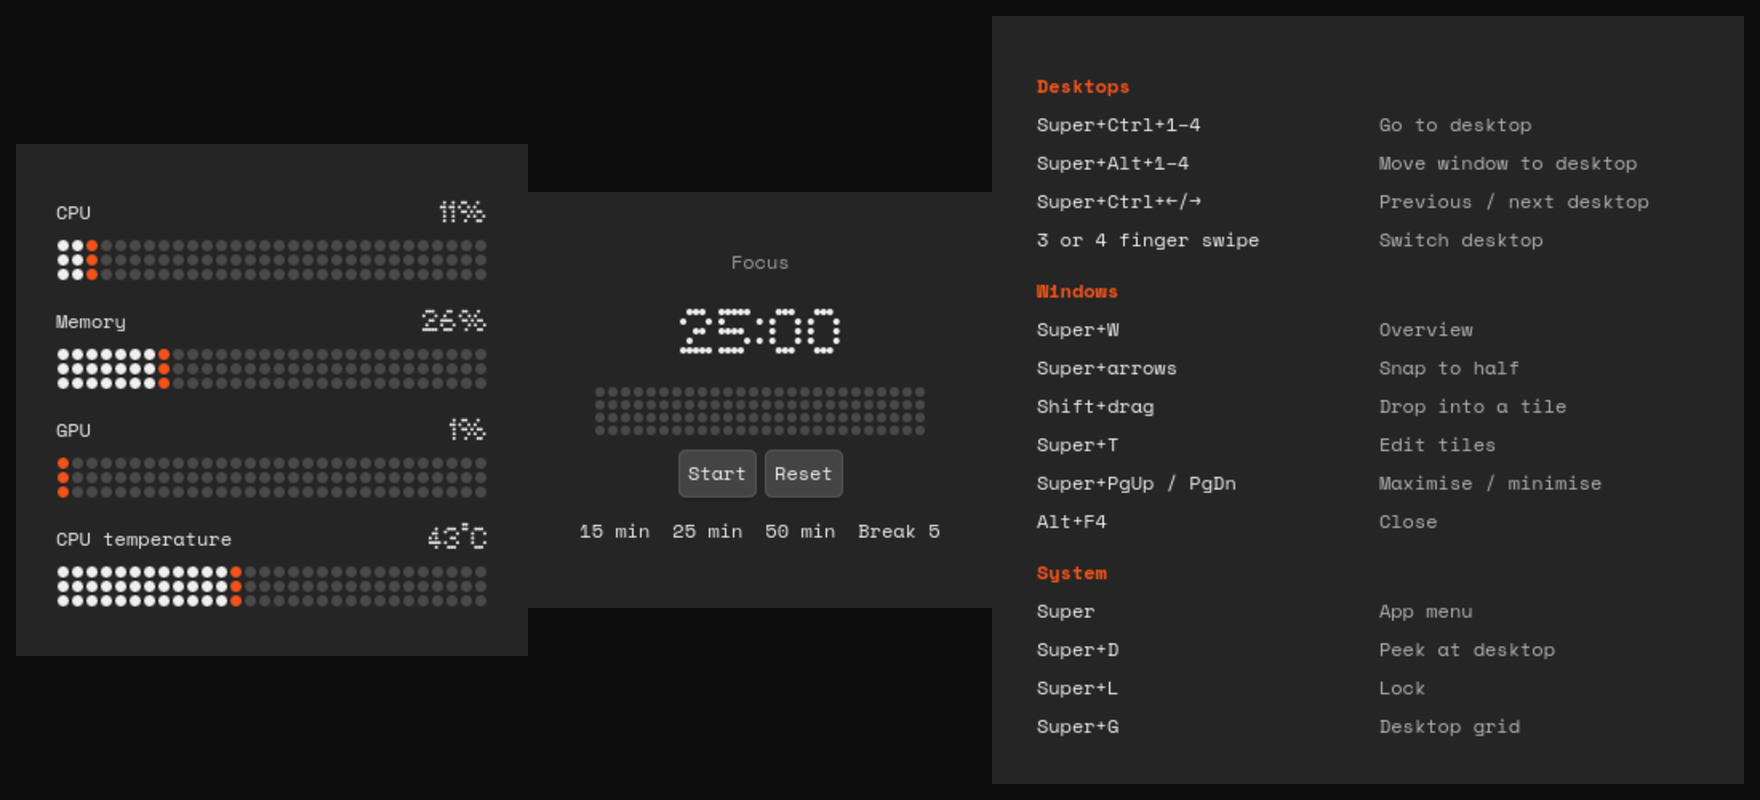
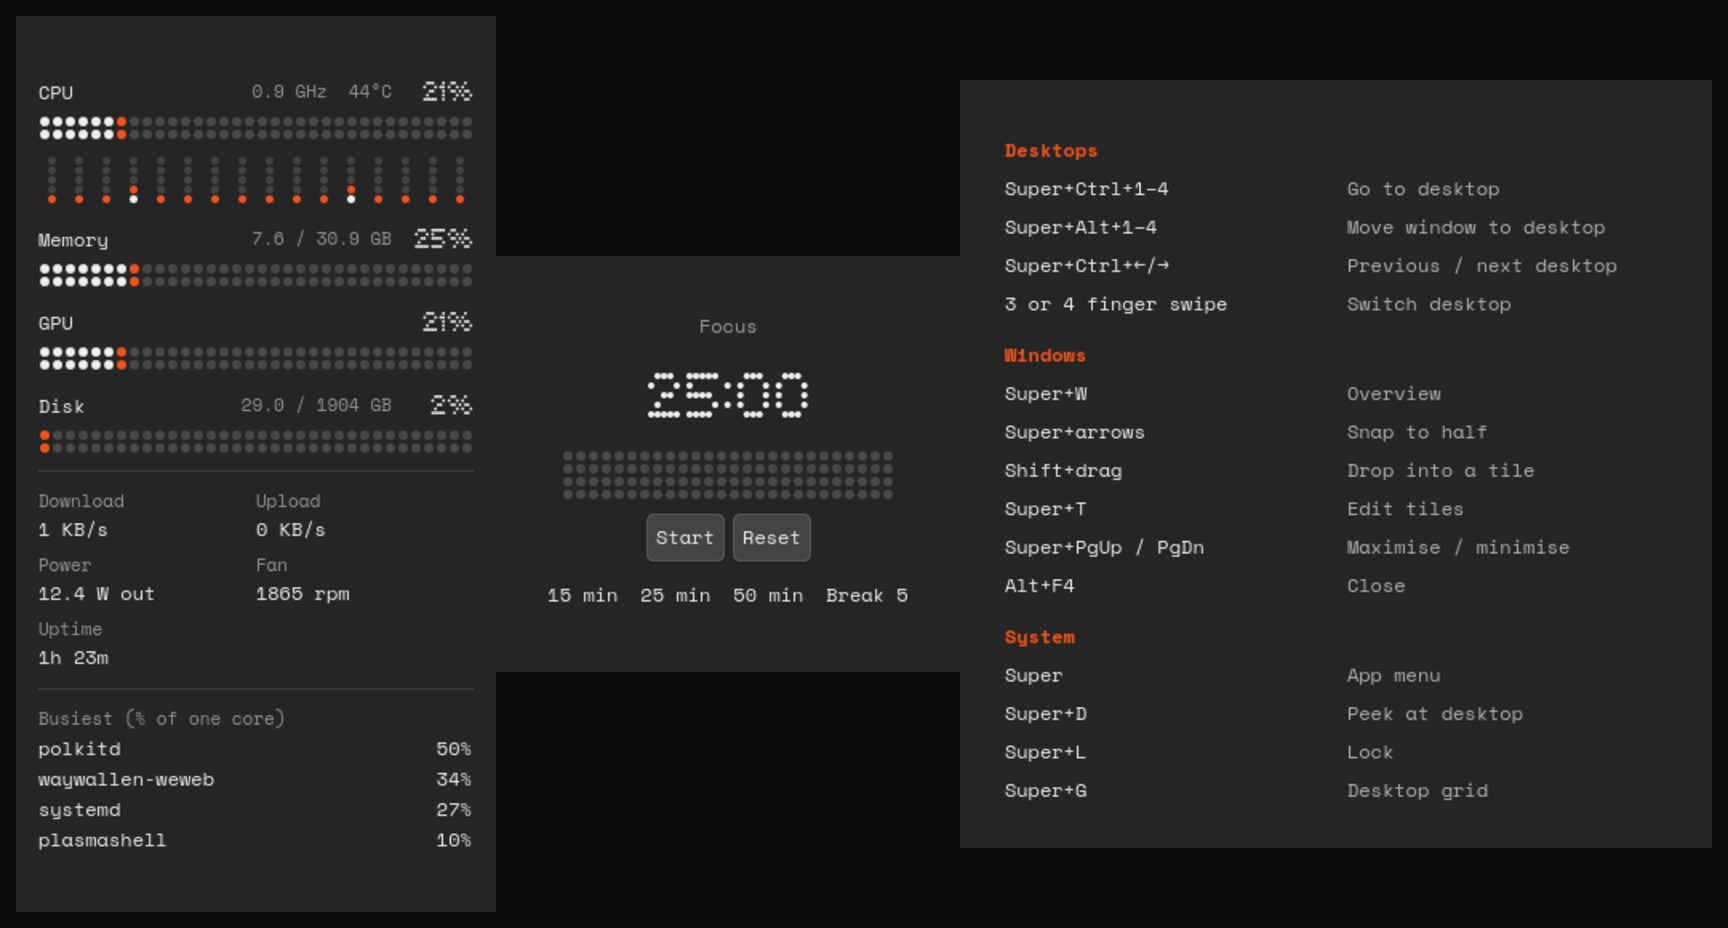
System monitor: compact pop-up with cores, disk, network, power and apps

diff --git a/plasmoids/local.dotsysmon/contents/ui/main.qml b/plasmoids/local.dotsysmon/contents/ui/main.qml
@@ -5,6 +5,7 @@ import org.kde.plasma.core as PlasmaCore
 import org.kde.plasma.components as PC
 import org.kde.kirigami as Kirigami
 import org.kde.ksysguard.sensors as Sensors
+import org.kde.plasma.plasma5support as P5Support
 
 PlasmoidItem {
     id: root
@@ -12,7 +13,6 @@ PlasmoidItem {
     Sensors.Sensor { id: cpu; sensorId: "cpu/all/usage"; updateRateLimit: 2000 }
     Sensors.Sensor { id: mem; sensorId: "memory/physical/usedPercent"; updateRateLimit: 4000 }
     Sensors.Sensor { id: temp; sensorId: "cpu/all/averageTemperature"; updateRateLimit: 4000 }
-    Sensors.Sensor { id: gpu; sensorId: "gpu/all/usage"; updateRateLimit: 4000 }
     toolTipMainText: "System"
     toolTipSubText: "CPU " + Math.round(n(cpu)) + "%  Memory " + Math.round(n(mem)) + "%  " + Math.round(n(temp)) + "°C"
 
@@ -39,24 +39,123 @@ PlasmoidItem {
         }
     }
     fullRepresentation: Item {
-        Layout.preferredWidth: col.implicitWidth + 32
-        Layout.preferredHeight: col.implicitHeight + 32
+        id: view
+        Layout.preferredWidth: col.implicitWidth + 20
+        Layout.preferredHeight: col.implicitHeight + 20
         Layout.minimumWidth: Layout.preferredWidth
         Layout.minimumHeight: Layout.preferredHeight
+        Layout.maximumWidth: Layout.preferredWidth
+        Layout.maximumHeight: Layout.preferredHeight
+        // Everything below is measured only while the pop-up is open
+        readonly property bool live: root.expanded || Plasmoid.formFactor === PlasmaCore.Types.Planar
+        readonly property int cores: coreCount.value > 0 ? Math.min(32, Math.round(Number(coreCount.value))) : 0
+        function has(q) { return q.value !== undefined && q.value !== null && q.value !== "" && !isNaN(Number(q.value)) }
+        function gb(v) { return (v / 1073741824).toFixed(v > 107374182400 ? 0 : 1) }
+        function rate(v) { return v >= 1048576 ? (v / 1048576).toFixed(1) + " MB/s" : Math.round(v / 1024) + " KB/s" }
+        function dur(v) { var d = Math.floor(v / 86400), h = Math.floor(v / 3600) % 24, m = Math.floor(v / 60) % 60; return d ? d + "d " + h + "h" : h ? h + "h " + m + "m" : m + "m" }
+        component S: Sensors.Sensor { enabled: view.live; updateRateLimit: 2000 }
+        S { id: gpu; sensorId: "gpu/all/usage" }
+        S { id: freq; sensorId: "cpu/all/averageFrequency" }
+        S { id: coreCount; sensorId: "cpu/all/coreCount" }
+        S { id: memUsed; sensorId: "memory/physical/used" }
+        S { id: memTotal; sensorId: "memory/physical/total" }
+        S { id: diskPct; sensorId: "disk/all/usedPercent"; updateRateLimit: 10000 }
+        S { id: diskUsed; sensorId: "disk/all/used"; updateRateLimit: 10000 }
+        S { id: diskTotal; sensorId: "disk/all/total"; updateRateLimit: 10000 }
+        S { id: down; sensorId: "network/all/download" }
+        S { id: up; sensorId: "network/all/upload" }
+        S { id: upt; sensorId: "os/system/uptime"; updateRateLimit: 30000 }
+        S { id: fan; sensorId: "lmsensors/cros_ec-isa-000c/fan1" }
+
+        property string watts: ""
+        property var apps: []
+        P5Support.DataSource {
+            engine: "executable"
+            interval: 5000
+            connectedSources: view.live ? ["LC_ALL=C; for b in /sys/class/power_supply/BAT*; do [ -e $b/power_now ] && awk '{printf \"W %.1f\\n\", $1/1e6}' $b/power_now || { [ -e $b/current_now ] && paste $b/current_now $b/voltage_now | awk '{printf \"W %.1f\\n\", $1*$2/1e12}'; }; echo \"S $(cat $b/status)\"; break; done; top -b -n 2 -d 0.6 -w 120 | awk '/^top/{n++} n==2 && $1 ~ /^[0-9]+$/ && $12 != \"top\" {c[$12]+=$9} END{for(k in c) if(c[k]>=1) print \"P\", c[k], k}' | sort -k2 -rn | head -4"] : []
+            onNewData: (src, d) => {
+                var w = "", st = "", list = []
+                d.stdout.split("\n").forEach(l => {
+                    var f = l.split(" ")
+                    if (f[0] === "W") w = f[1]; else if (f[0] === "S") st = f.slice(1).join(" ")
+                    else if (f[0] === "P" && Number(f[1]) > 0) list.push({ c: Math.round(Number(f[1])), n: f.slice(2).join(" ") })
+                })
+                view.watts = w ? w + " W " + (st === "Charging" ? "in" : st === "Discharging" ? "out" : "") : ""
+                view.apps = list
+            }
+        }
+
+        component Row1: ColumnLayout {
+            property string t
+            property string sub
+            property real v
+            spacing: 3
+            RowLayout {
+                PC.Label { text: t }
+                PC.Label { text: sub; opacity: 0.55; font: Kirigami.Theme.smallFont; Layout.fillWidth: true; horizontalAlignment: Text.AlignRight }
+                Text { text: Math.round(v) + "%"; font.family: "Ndot55Caps"; font.pointSize: 13; color: Kirigami.Theme.textColor; horizontalAlignment: Text.AlignRight; Layout.preferredWidth: 46 }
+            }
+            DotBar { cols: 34; rows: 2; pitch: 8; value: v / 100; hot: v >= 85 }
+        }
+
         ColumnLayout {
             id: col
             anchors.centerIn: parent
-            spacing: 12
-            Repeater {
-                model: [{ t: "CPU", v: root.n(cpu), m: 100, u: "%" }, { t: "Memory", v: root.n(mem), m: 100, u: "%" }, { t: "GPU", v: root.n(gpu), m: 100, u: "%" }, { t: "CPU temperature", v: root.n(temp), m: 100, u: "°C" }]
-                ColumnLayout {
-                    required property var modelData
-                    spacing: 4
-                    RowLayout {
-                        PC.Label { text: modelData.t; Layout.fillWidth: true }
-                        Text { text: Math.round(modelData.v) + modelData.u; font.family: "Ndot55Caps"; font.pointSize: 14; color: Kirigami.Theme.textColor }
+            spacing: 10
+            Row1 { t: "CPU"; v: root.n(cpu); sub: (view.has(freq) ? (root.n(freq) / 1000).toFixed(1) + " GHz  " : "") + Math.round(root.n(temp)) + "°C" }
+            Row {    // one column of dots per core
+                visible: view.cores > 0
+                Layout.alignment: Qt.AlignHCenter
+                Repeater {
+                    model: view.cores
+                    Item {
+                        id: cr
+                        required property int index
+                        width: 272 / view.cores; height: 30
+                        Sensors.Sensor { id: cs; sensorId: "cpu/cpu" + cr.index + "/usage"; enabled: view.live; updateRateLimit: 2000 }
+                        readonly property real u: root.n(cs)
+                        readonly property int lit: u < 3 ? 0 : Math.max(1, Math.round(u / 20))
+                        Repeater {
+                            model: 5
+                            Rectangle {
+                                required property int index
+                                anchors.horizontalCenter: parent.horizontalCenter
+                                y: index * 6; width: 5; height: 5; radius: 2.5
+                                color: index === 5 - cr.lit || cr.u >= 85 ? "#f3531a" : Kirigami.Theme.textColor
+                                opacity: index >= 5 - cr.lit ? 1 : 0.15
+                            }
+                        }
                     }
-                    DotBar { value: modelData.v / modelData.m; hot: modelData.v >= 85 }
+                }
+            }
+            Row1 { t: "Memory"; v: root.n(mem); sub: view.has(memTotal) ? view.gb(root.n(memUsed)) + " / " + view.gb(root.n(memTotal)) + " GB" : "" }
+            Row1 { t: "GPU"; v: root.n(gpu); visible: view.has(gpu) }
+            Row1 { t: "Disk"; v: root.n(diskPct); sub: view.has(diskTotal) ? view.gb(root.n(diskUsed)) + " / " + view.gb(root.n(diskTotal)) + " GB" : ""; visible: view.has(diskPct) }
+            Rectangle { Layout.fillWidth: true; implicitHeight: 1; color: Kirigami.Theme.textColor; opacity: 0.12 }
+            Grid {
+                columns: 2; rowSpacing: 5
+                Repeater {
+                    model: [["Download", view.rate(root.n(down))], ["Upload", view.rate(root.n(up))], ["Power", view.watts], ["Fan", view.has(fan) ? Math.round(root.n(fan)) + " rpm" : ""], ["Uptime", view.has(upt) ? view.dur(root.n(upt)) : ""]].filter(x => x[1] !== "")
+                    Column {
+                        required property var modelData
+                        width: 136
+                        PC.Label { text: modelData[0]; opacity: 0.55; font: Kirigami.Theme.smallFont }
+                        PC.Label { text: modelData[1] }
+                    }
+                }
+            }
+            Rectangle { visible: view.apps.length > 0; Layout.fillWidth: true; implicitHeight: 1; color: Kirigami.Theme.textColor; opacity: 0.12 }
+            ColumnLayout {
+                visible: view.apps.length > 0
+                spacing: 1
+                PC.Label { text: "Busiest (% of one core)"; opacity: 0.55; font: Kirigami.Theme.smallFont }
+                Repeater {
+                    model: view.apps
+                    RowLayout {
+                        required property var modelData
+                        PC.Label { text: modelData.n; textFormat: Text.PlainText; elide: Text.ElideRight; Layout.preferredWidth: 220 }
+                        PC.Label { text: modelData.c + "%"; horizontalAlignment: Text.AlignRight; Layout.preferredWidth: 46 }
+                    }
                 }
             }
         }
